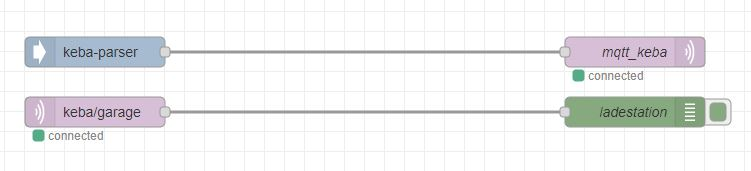
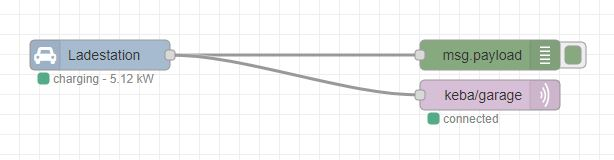
feat: write status and current power to node

Changed region(s): [[0.0309, 0.1875, 0.9902, 0.8438]]

diff --git a/keba-parser.js b/keba-parser.js
@@ -19,6 +19,7 @@ module.exports = (RED) => {
 function sendMessage(node, config) {
     parseKebaData(node, config, (payload) => {
         node.send({ payload });
+        node.status(getStatus(payload));
     });
 }
 
@@ -114,6 +115,24 @@ function keyMatcher(key, val) {
         default:
             return { key: val };
     }
+}
+
+function getStatus(payload) {
+    let statusColor = 'grey';
+
+    switch (payload.state) {
+        case 'unplugged':
+            statusColor = 'yellow';
+            break;
+        case 'plugged':
+            statusColor = 'blue';
+            break;
+        case 'charging':
+            statusColor = 'green';
+            break;
+    }
+
+    return { fill: statusColor, shape: 'dot', text: `${payload.state} - ${payload.realPower} kW` };
 }
 
 function numberParser(stringVal) {

diff --git a/keba-parser.html b/keba-parser.html
@@ -9,8 +9,8 @@
         },
         inputs: 0,
         outputs: 1,
-        icon: "font-awesome/fa-automobile",
-        label: () => {
+        icon: "font-awesome/fa-car",
+        label: function() {
             return this.name;
         },
     });
